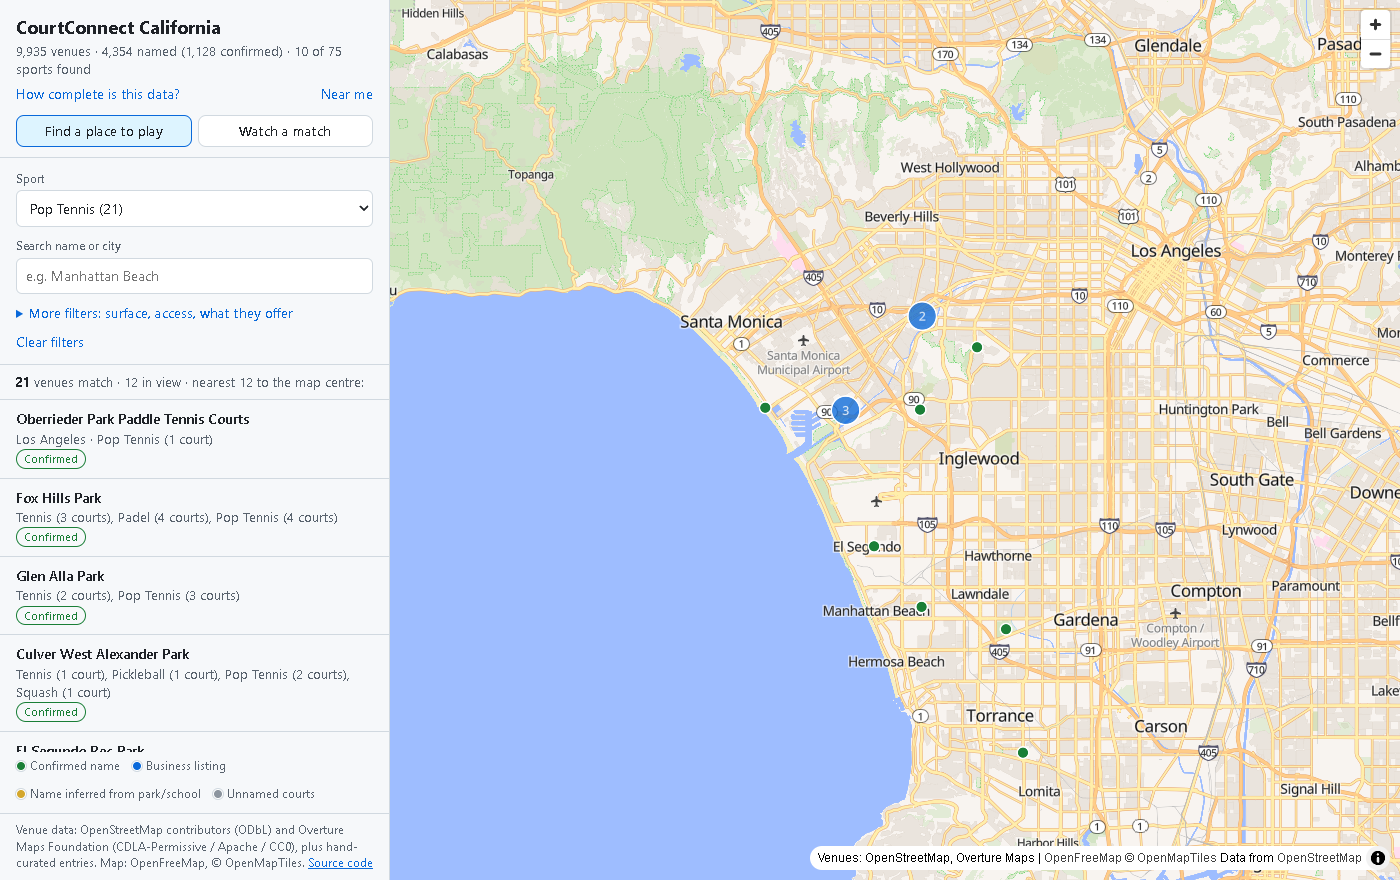
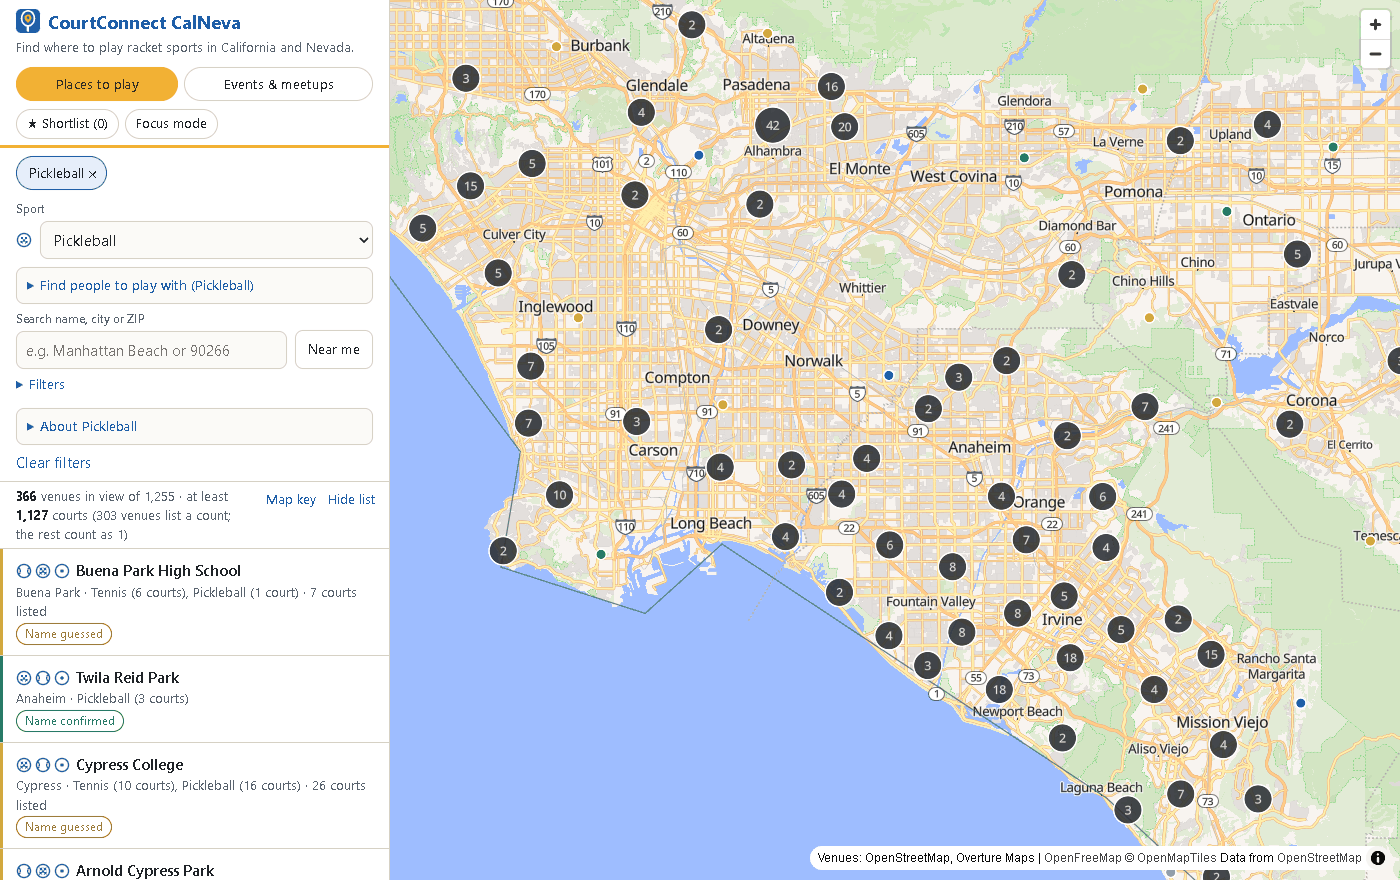
README screenshots: recapture Play and Watch views of the current app

diff --git a/docs/sessions/2026-10-23-readme-screenshots.md b/docs/sessions/2026-10-23-readme-screenshots.md
@@ -1,0 +1,4 @@
+# 2026-10-23 README screenshots
+
+Replaced `docs/screenshots/map-play.png` (`#sport=Pickleball`, LA/Orange County) and `map-watch.png` (`#mode=watch`) with captures of the current app (1400x880, light theme, headless Chrome over CDP, palette-quantised to ~330/420 KB).
+Next: recapture after the next big UI change; the map position is set with `map.jumpTo` because the hash holds no viewport.
